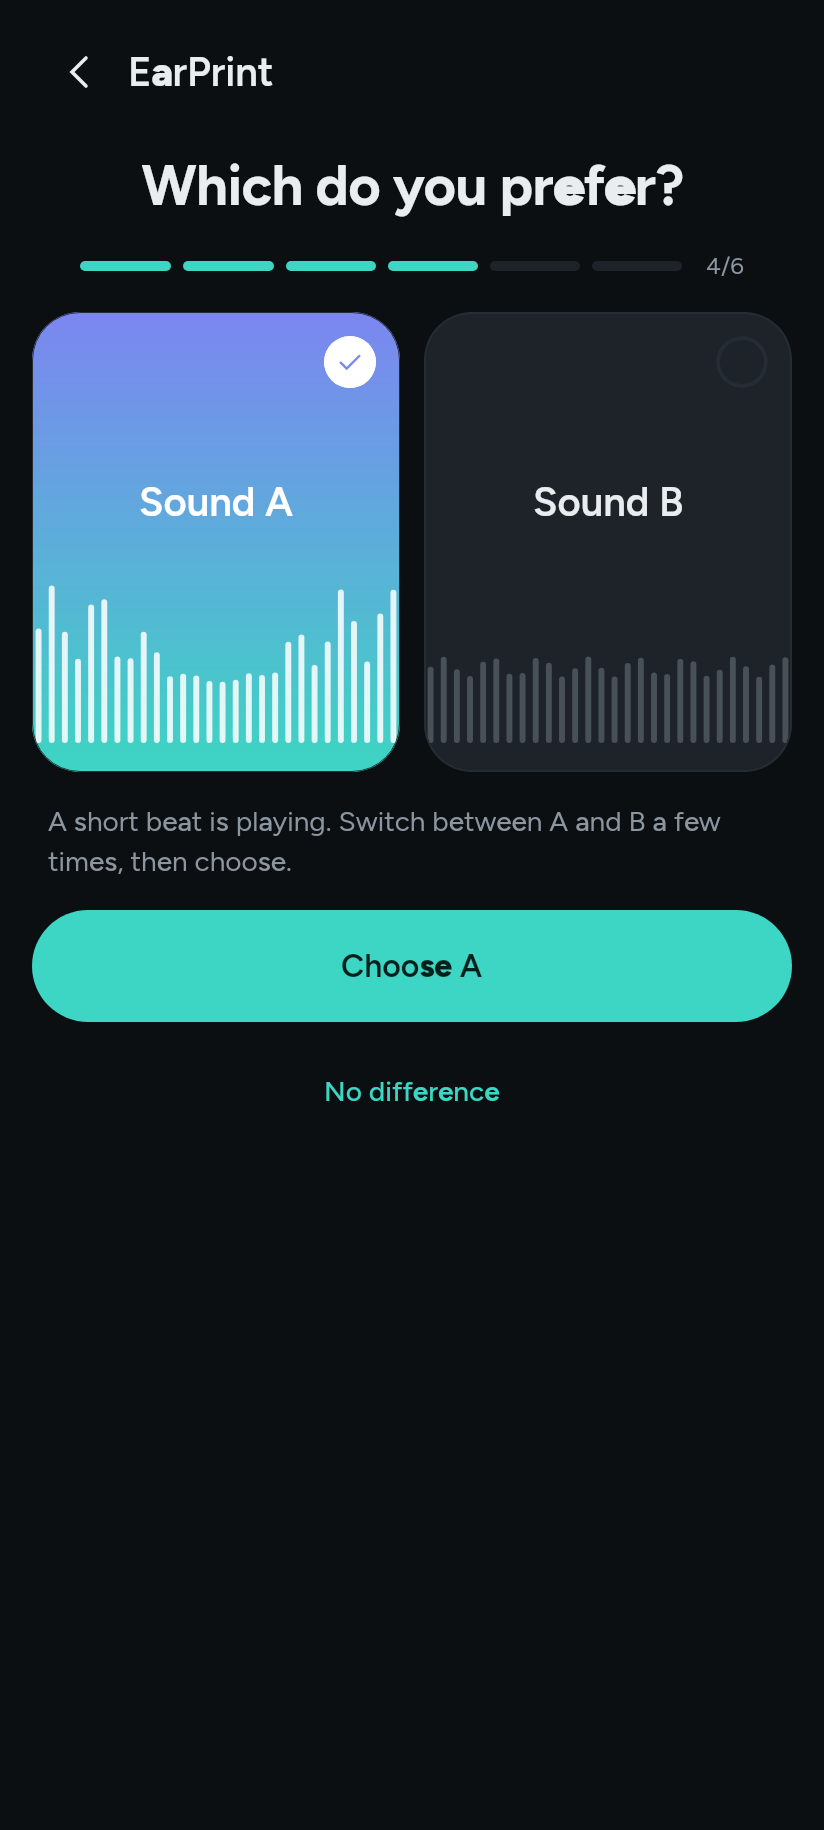
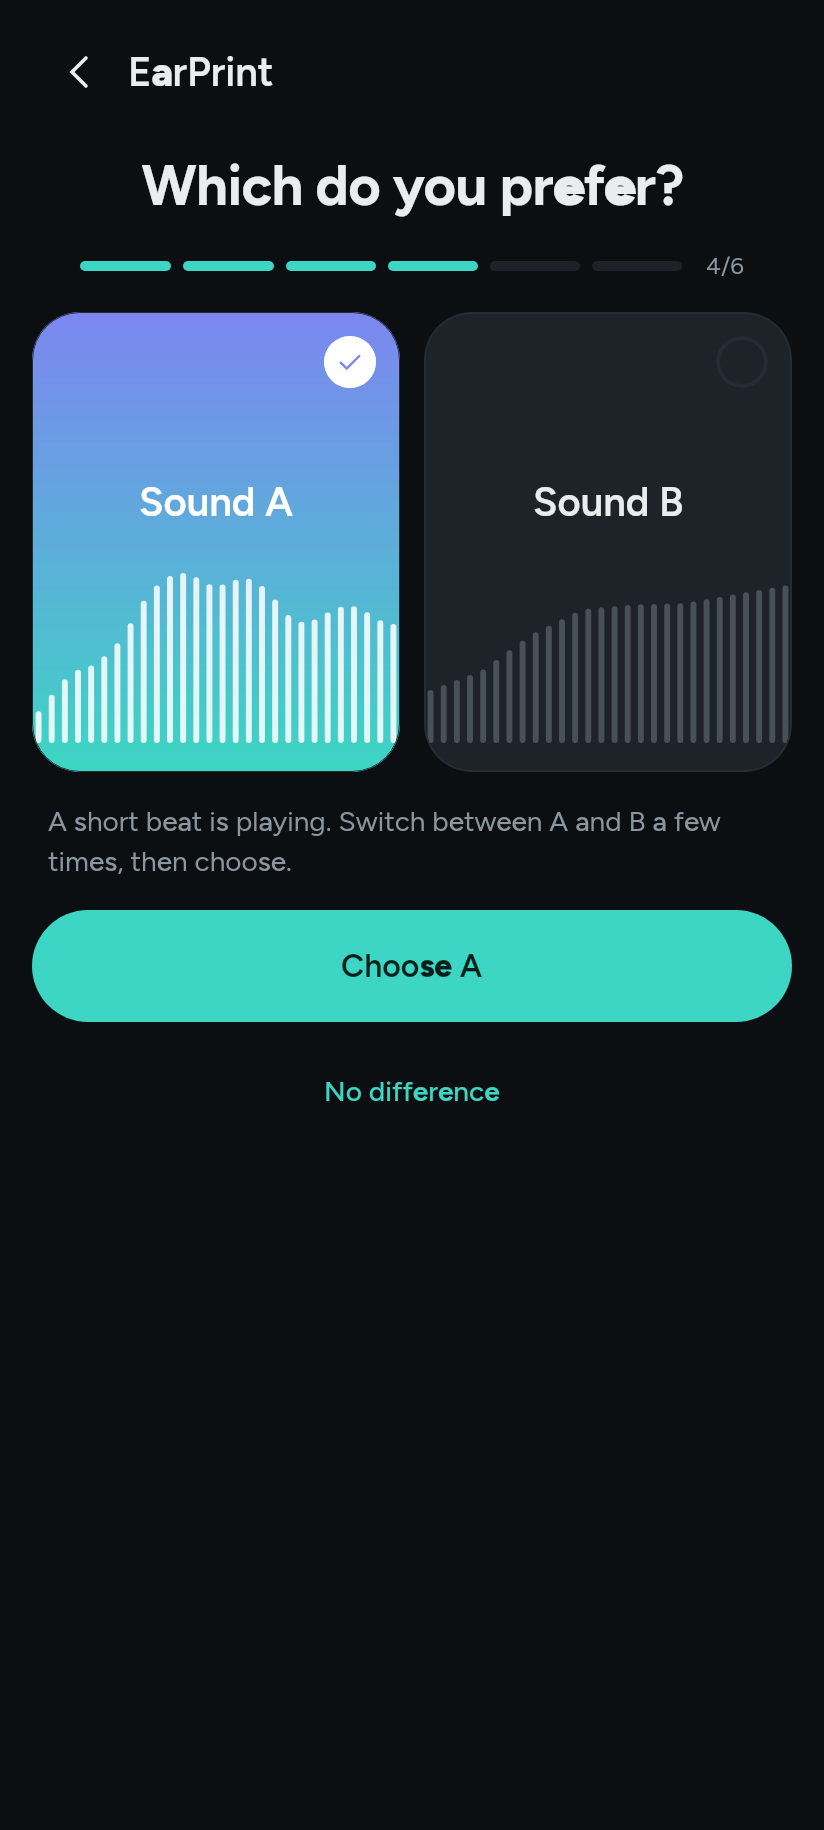
EarPrint taste rounds are easy to tell apart: each pairs the sound pushed one way against it pushed the opposite way (warm or bright, voices or punch), halving each time, and the cards' bars show each sound's shape

diff --git a/ui/src/commonMain/kotlin/com/blazify/buds/ui/screens/EarPrintScreen.kt b/ui/src/commonMain/kotlin/com/blazify/buds/ui/screens/EarPrintScreen.kt
@@ -224,8 +224,8 @@ fun EarPrintScreen(state: BudsState, change: (Change) -> Unit, back: () -> Unit,
                             Text("Which do you prefer?", style = MaterialTheme.typography.headlineMedium, color = palette.text, textAlign = TextAlign.Center)
                             RoundBar(round.number, round.total)
                             Row(Modifier.fillMaxWidth(), horizontalArrangement = Arrangement.spacedBy(12.dp)) {
-                                SoundCard("Sound A", pick != true, Modifier.weight(1f)) { pick = false }
-                                SoundCard("Sound B", pick == true, Modifier.weight(1f)) { pick = true }
+                                SoundCard("Sound A", round.a, pick != true, Modifier.weight(1f)) { pick = false }
+                                SoundCard("Sound B", round.b, pick == true, Modifier.weight(1f)) { pick = true }
                             }
                             Hint("A short beat is playing. Switch between A and B a few times, then choose.", Modifier.padding(horizontal = 8.dp))
                             BigButton(if (pick == true) "Choose B" else "Choose A", null) {
@@ -317,7 +317,7 @@ private fun RoundBar(number: Int, total: Int) {
 
 /** One of the two sounds: a tall card with a live wave, lit when it is the one playing. */
 @Composable
-private fun SoundCard(name: String, playing: Boolean, modifier: Modifier, onClick: () -> Unit) {
+private fun SoundCard(name: String, curve: List<Double>, playing: Boolean, modifier: Modifier, onClick: () -> Unit) {
     val palette = LocalPalette.current
     val time = rememberInfiniteTransition(label = "wave")
     val phase by time.animateFloat(0f, 1f, infiniteRepeatable(tween(1600, easing = LinearEasing), RepeatMode.Restart), label = "phase")
@@ -332,8 +332,12 @@ private fun SoundCard(name: String, playing: Boolean, modifier: Modifier, onClic
             val w = size.width / bars
             for (i in 0 until bars) {
                 val x = i * w + w / 2
-                val wave = if (playing) 0.5f + 0.5f * kotlin.math.sin((i / bars.toFloat() * 6f + phase * 6.283f) * 1.3f) else 0.25f
-                val h = size.height * (0.12f + 0.22f * wave * (0.6f + 0.4f * kotlin.math.sin(i * 1.7f)))
+                // The bars follow this sound's own shape, bass on the left and treble on the right, with a gentle sway.
+                val at = i / (bars - 1f) * (curve.size - 1)
+                val lo = at.toInt().coerceAtMost(curve.size - 2)
+                val db = curve[lo] + (curve[lo + 1] - curve[lo]) * (at - lo)
+                val sway = if (playing) 0.02f * kotlin.math.sin(i * 0.9f + phase * 6.283f) else 0f
+                val h = size.height * (0.24f + 0.032f * db.toFloat() + sway).coerceIn(0.04f, 0.6f)
                 drawLine(
                     if (playing) Color.White.copy(alpha = 0.85f) else palette.muted.copy(alpha = 0.4f),
                     Offset(x, size.height - 16.dp.toPx()), Offset(x, size.height - 16.dp.toPx() - h),

diff --git a/core/src/commonMain/kotlin/com/blazify/buds/core/earprint/EarPrint.kt b/core/src/commonMain/kotlin/com/blazify/buds/core/earprint/EarPrint.kt
@@ -137,32 +137,51 @@ class HearingTest(private val pitches: List<Int> = EarPrint.TEST_PITCHES) {
 }
 
 /**
- * The taste test: six rounds of "this or that". Each round offers the sound so far against it with one change; the
- * one chosen carries on. "No difference" keeps the sound as it is.
+ * The taste test: six rounds of "this or that". Like a sound engineer narrowing in, each round plays the sound so far
+ * pushed one way against the same sound pushed the opposite way, so the two are easy to tell apart: warmer or brighter,
+ * then voices forward or a punchier V, then each again at half the size around what was chosen, then half again.
+ * "No difference" keeps the sound as it is.
  */
 class TasteTest(start: List<Double>) {
     data class Round(val number: Int, val total: Int, val name: String, val a: List<Double>, val b: List<Double>)
 
-    private val tweaks = listOf(
-        "More bass" to listOf(2.0, 1.5, 0.5, 0.0, 0.0, 0.0, 0.0, 0.0),
-        "Brighter" to listOf(0.0, 0.0, 0.0, 0.0, 0.5, 1.5, 2.0, 2.0),
-        "Clearer voices" to listOf(0.0, -0.5, 0.0, 1.0, 2.0, 1.0, 0.0, 0.0),
-        "Less bass" to listOf(-1.5, -1.0, -0.5, 0.0, 0.0, 0.0, 0.0, 0.0),
-        "Softer treble" to listOf(0.0, 0.0, 0.0, 0.0, 0.0, -1.0, -1.5, -1.5),
-        "More air" to listOf(0.0, 0.0, 0.0, 0.0, 0.0, 0.0, 1.0, 2.5),
+    private val rounds = listOf(
+        "Warm or bright" to (WARM to 1.0),
+        "Voices or punch" to (VOICES to 1.0),
+        "Warm or bright" to (WARM to 0.5),
+        "Voices or punch" to (VOICES to 0.5),
+        "Warm or bright" to (WARM to 0.25),
+        "Voices or punch" to (VOICES to 0.25),
     )
     private var index = 0
     var sound: List<Double> = start
         private set
 
-    val done: Boolean get() = index >= tweaks.size
+    val done: Boolean get() = index >= rounds.size
 
-    fun current(): Round? = if (done) null else Round(index + 1, tweaks.size, tweaks[index].first, sound, EarPrint.add(sound, tweaks[index].second))
+    fun current(): Round? {
+        if (done) return null
+        val (name, push) = rounds[index]
+        val (axis, size) = push
+        return Round(index + 1, rounds.size, name, EarPrint.add(sound, axis.map { it * size }), EarPrint.add(sound, axis.map { -it * size }))
+    }
 
     /** true for B, false for A, null for no difference. */
     fun choose(b: Boolean?) {
         val round = current() ?: return
-        if (b == true) sound = round.b
+        when (b) {
+            true -> sound = round.b
+            false -> sound = round.a
+            null -> {}
+        }
         index++
+    }
+
+    companion object {
+        /** More bass and less treble one way; the other way, brighter and lighter. */
+        val WARM = listOf(2.5, 2.0, 1.0, 0.0, -0.5, -1.2, -2.0, -2.5)
+
+        /** Voices and the middle forward one way; the other way, a V of deep bass and crisp treble. */
+        val VOICES = listOf(-1.0, 0.0, 2.0, 2.5, 1.5, -0.5, -1.5, -2.0)
     }
 }

diff --git a/core/src/commonTest/kotlin/com/blazify/buds/core/earprint/EarPrintTest.kt b/core/src/commonTest/kotlin/com/blazify/buds/core/earprint/EarPrintTest.kt
@@ -31,10 +31,13 @@ class EarPrintTest {
     @Test
     fun tasteTestKeepsWhatIsChosen() {
         val taste = TasteTest(List(8) { 0.0 })
+        val first = taste.current()!!
+        // The two sounds go opposite ways, 5 dB apart at the ends, so they are easy to tell apart.
+        assertEquals(5.0, first.a.first() - first.b.first())
         taste.choose(true)
-        assertEquals(2.0, taste.sound.first())
+        assertEquals(-2.5, taste.sound.first())
         repeat(5) { taste.choose(null) }
         assertTrue(taste.done)
-        assertEquals(2.0, taste.sound.first())
+        assertEquals(-2.5, taste.sound.first())
     }
 }
